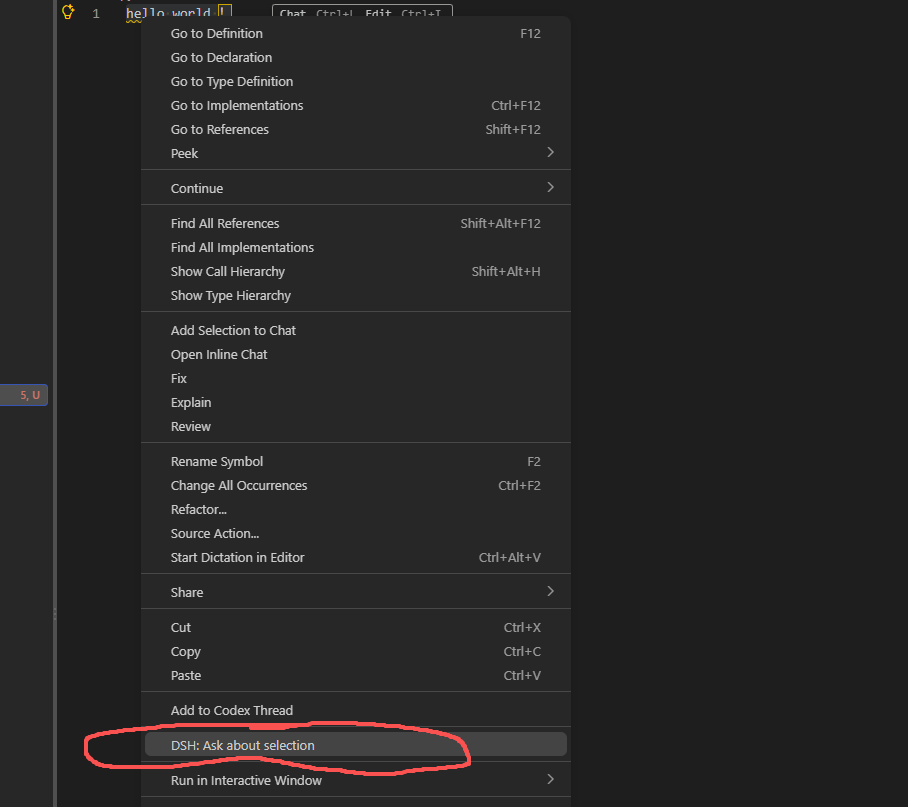
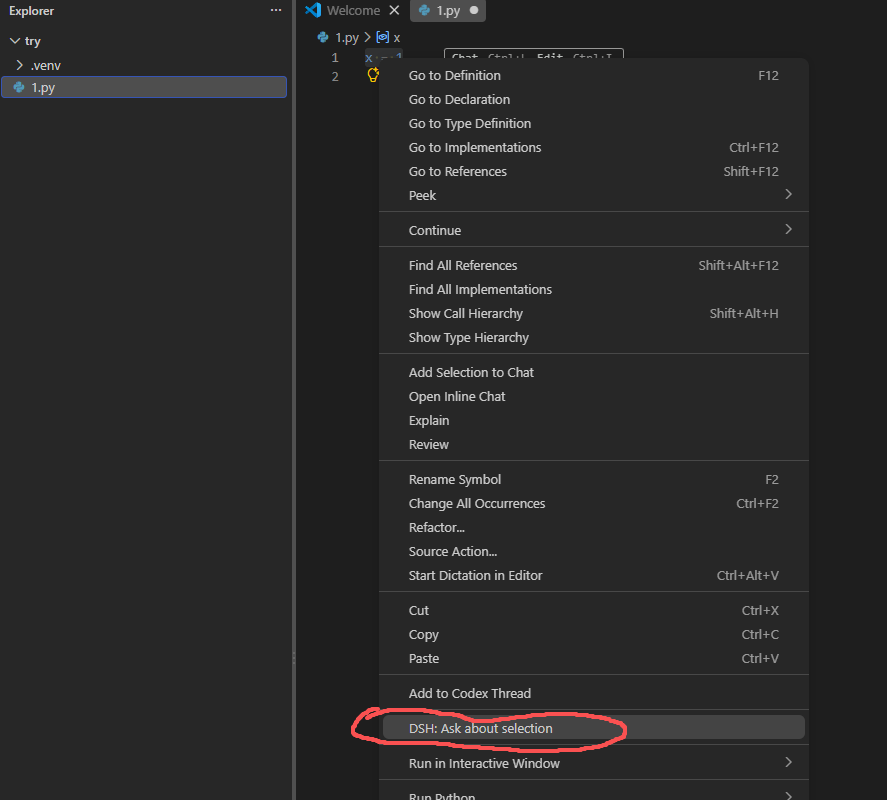
docs: refreshed screenshots — combined sidebar+chat, plus ask-card/approval/question/review/mode-picker

diff --git a/docs/screenshots/README.md b/docs/screenshots/README.md
@@ -1,38 +1,21 @@
-# Screenshots — 拍摄清单与放置规范
+# Screenshots — 当前截图清单
 
-README 用这些截图展示功能。**高瘦图不要横着排**——竖长图并排会被压得很窄。规范做法：每张图独立成行、居中、按宽度缩放，这样竖长图也能看得清。
+README 用这些截图展示功能。**高瘦图不要横着排**——规范做法：每张图独立成行、居中、按 `width` 缩放。
 
-## 放置方式（README 里的统一写法）
+当前 7 张已就位（文件名与 README 引用一致）：
 
-- 每张图用 `width` 定宽，不设高度（高度自动按比例）。
-- **竖长图**（侧边栏、对话）`width` 用 `280–320`，居中、上下堆叠。
-- **横图**（右键菜单、设置）`width` 用 `340–420`。
-- 图片文件名固定，放进本目录即可，README 自动生效。
-
-## 截图清单
-
-| 文件名 | 拍什么 | width | 状态 |
+| 文件 | 内容 | 尺寸（宽×高） | 在 README 中 width |
 |---|---|---|---|
-| `sidebar.png` | 整个侧边栏：会话列表 + 最新消息 + 输入框 | 300 | ✅ 已有（建议重拍一张更饱满的） |
-| `chat0.png` | 一次任务：流式回复 + 「⚙ 动作」折叠块 + 思考栏 + 计时器 | 300 | ✅ 已有 |
-| `chat1.png` | 任务较长时，从上往下接的第二张（含 `+N-M`） | 300 | ✅ 已有 |
-| `ask-menu.png` | 编辑器选中代码 → 右键菜单底部「DSH: Ask about selection」 | 340 | ✅ 已有 |
-| `ask-card.png` | 选中代码提问后，面板里弹出的 **Ask 卡片**（解释/审查/修复/自定义） | 300 | 🆕 待拍 |
-| `approval.png` | **审批卡片**：agent 请求执行需审批的操作，面板弹出「允许一次/拒绝」 | 300 | 🆕 待拍 |
-| `question.png` | **选择题卡片**：单/多选 + 推荐徽章 + 自定义回答 | 300 | 🆕 待拍 |
-| `review-changes.png` | **Review Agent Changes**：改动文件列表 + 打开的 git diff | 380 | 🆕 待拍 |
-| `mode-picker.png`（可选） | 新建会话的模式下拉（标准/PTC/极简/创造） | 340 | 🆕 待拍 |
+| `sidebar.png` | 侧边栏 + 对话（合并一张：会话列表、流式回复、⚙ 动作、计时、+N-M） | 549×1312 | 290 |
+| `ask-menu.png` | 编辑器选中代码 → 右键菜单「DSH: Ask about selection」 | 887×800 | 380 |
+| `ask-card.png` | 面板里弹出的结构化 Ask 卡片（文件/选区/工作区/分支） | 566×1328 | 290 |
+| `approval.png` | 审批卡片（允许一次 / 拒绝） | 683×301 | 460 |
+| `question.png` | 选择题卡片（单选/多选、推荐徽章、自定义回答） | 566×1307 | 290 |
+| `review.png` | Review Agent Changes：改动文件 → git diff | 557×253 | 440 |
+| `mode-picker.png` | 新建会话的模式下拉（标准/PTC/极简/创造） | 656×215 | 400 |
 
-> 先拍标记 🆕 的 4 张（ask-card / approval / question / review-changes），README 的「更多截图」一句话会随这些文件出现自动补上对应展示。
+## 想重拍或新增
 
-## 拍摄小贴士
-
-1. **侧边栏要饱满**：先把 VS Code 窗口拉高一点，让面板里同时有会话列表、一条带工具动作的消息、输入框，再截整块面板。宁可图长一点，也别缩。
-2. **对比度**：截图用浅色或深色主题都行，但全仓库保持一致，别混。
-3. **真实内容**：用真实代码和真实任务，别用假数据，展示的正是它真实干活的画面。
-4. **不要带隐私**：确认截图里没有真实 API key、本地路径或个人文件内容。
-5. **尺寸**：`width` 已由 README 控制，你只要保证 PNG 源图清晰（建议 ≥ 2× 显示宽度，即 ≥ 600px 宽）。
-
-## 怎么把图接进 README
-
-把文件放到本目录、文件名对上表后，README 里对应的 `<img src="docs/screenshots/xxx.png" ...>` 会自动显示，**不需要改 README**。新增的待拍图，等拍好后把 README 截图区的对应块补上即可。
+- 重拍：直接覆盖同名文件即可，README 自动生效（不需要改 README）。
+- 新增：把文件放本目录，然后在 README 截图区补一块 `<p align="center"><img .../></p>`。
+- 规范：图源清晰（≥ 2× 显示宽度）；`width` 只调宽度、高度自动；竖长图居中单独成行；别带真实 API key / 路径 / 隐私内容。

diff --git a/README.md b/README.md
@@ -64,19 +64,33 @@ If you already use DSH (web GUI or CLI) and you work in VS Code, `dsh-vsc` turns
 
 ## Screenshots
 
-**Sidebar — native DSH panel** (session list, streaming reply, input)
+**Sidebar & chat** — the native DSH panel: session list, streaming reply, collapsible "⚙ Actions", per-turn timing, `+N-M` stats
 
-<p align="center"><img src="docs/screenshots/sidebar.png" width="300" alt="DSH sidebar panel" /></p>
-
-**Chat & tool actions** — streaming reply, collapsible "⚙ Actions", per-turn timing, `+N-M` change stats
-
-<p align="center"><img src="docs/screenshots/chat0.png" width="300" alt="Chat with tool actions (top)" /><br /><img src="docs/screenshots/chat1.png" width="300" alt="Chat with tool actions (bottom)" /></p>
+<p align="center"><img src="docs/screenshots/sidebar.png" width="290" alt="DSH sidebar and chat" /></p>
 
 **Ask about selection** — select code in the editor, right-click → *DSH: Ask about selection*
 
-<p align="center"><img src="docs/screenshots/ask-menu.png" width="340" alt="Editor right-click Ask DSH" /></p>
+<p align="center"><img src="docs/screenshots/ask-menu.png" width="380" alt="Ask about selection menu" /></p>
 
-> More screenshots (approval & question cards, mode picker, Review Agent Changes) are on the way — see [docs/screenshots/](docs/screenshots/) for the shot list.
+**Ask card** — structured context card (file / selection / workspace / branch) shown in the panel
+
+<p align="center"><img src="docs/screenshots/ask-card.png" width="290" alt="Ask card in the panel" /></p>
+
+**Approval card** — allow once / deny when the agent requests a privileged operation
+
+<p align="center"><img src="docs/screenshots/approval.png" width="460" alt="Approval card" /></p>
+
+**Question card** — single / multi choice, recommended badge, custom answer
+
+<p align="center"><img src="docs/screenshots/question.png" width="290" alt="Question card" /></p>
+
+**Review Agent Changes** — changed files per turn → native git diff
+
+<p align="center"><img src="docs/screenshots/review.png" width="440" alt="Review Agent Changes" /></p>
+
+**Session modes** — standard / PTC / minimal / creative
+
+<p align="center"><img src="docs/screenshots/mode-picker.png" width="400" alt="Session mode picker" /></p>
 
 ## Installation
 

diff --git a/README.zh.md b/README.zh.md
@@ -64,19 +64,33 @@
 
 ## 截图
 
-**侧边栏——原生 DSH 面板**（会话列表、流式回复、输入框）
+**侧边栏与对话**——原生 DSH 面板：会话列表、流式回复、可折叠的「⚙ 动作」、每轮实时计时、`+N-M` 统计
 
-<p align="center"><img src="docs/screenshots/sidebar.png" width="300" alt="DSH 侧边栏面板" /></p>
-
-**对话与工具动作**——流式回复、可折叠的「⚙ 动作」、每轮实时计时、`+N-M` 改动统计
-
-<p align="center"><img src="docs/screenshots/chat0.png" width="300" alt="对话与工具动作（上）" /><br /><img src="docs/screenshots/chat1.png" width="300" alt="对话与工具动作（下）" /></p>
+<p align="center"><img src="docs/screenshots/sidebar.png" width="290" alt="DSH 侧边栏与对话" /></p>
 
 **右键提问**——在编辑器里选中代码，右键 → *DSH: Ask about selection*
 
-<p align="center"><img src="docs/screenshots/ask-menu.png" width="340" alt="编辑器右键 Ask DSH" /></p>
+<p align="center"><img src="docs/screenshots/ask-menu.png" width="380" alt="右键 Ask DSH 菜单" /></p>
 
-> 更多截图（审批 / 选择题卡片、模式选择、Review Agent Changes）在补充中——拍摄清单见 [docs/screenshots/](docs/screenshots/)。
+**Ask 卡片**——面板里弹出的结构化上下文卡片（文件 / 选区 / 工作区 / 分支）
+
+<p align="center"><img src="docs/screenshots/ask-card.png" width="290" alt="面板中的 Ask 卡片" /></p>
+
+**审批卡片**——agent 请求执行需审批的操作时，允许一次 / 拒绝
+
+<p align="center"><img src="docs/screenshots/approval.png" width="460" alt="审批卡片" /></p>
+
+**选择题卡片**——单选 / 多选、推荐徽章、自定义回答
+
+<p align="center"><img src="docs/screenshots/question.png" width="290" alt="选择题卡片" /></p>
+
+**Review Agent Changes**——每轮改动的文件 → 一键打开原生 git diff
+
+<p align="center"><img src="docs/screenshots/review.png" width="440" alt="Review Agent Changes" /></p>
+
+**会话模式**——标准 / PTC / 极简 / 创造
+
+<p align="center"><img src="docs/screenshots/mode-picker.png" width="400" alt="会话模式选择" /></p>
 
 ## 安装
 
